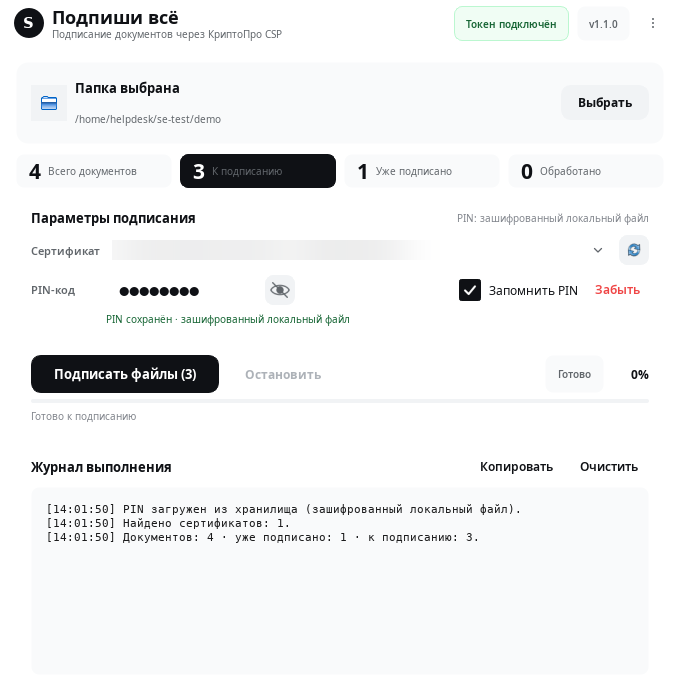
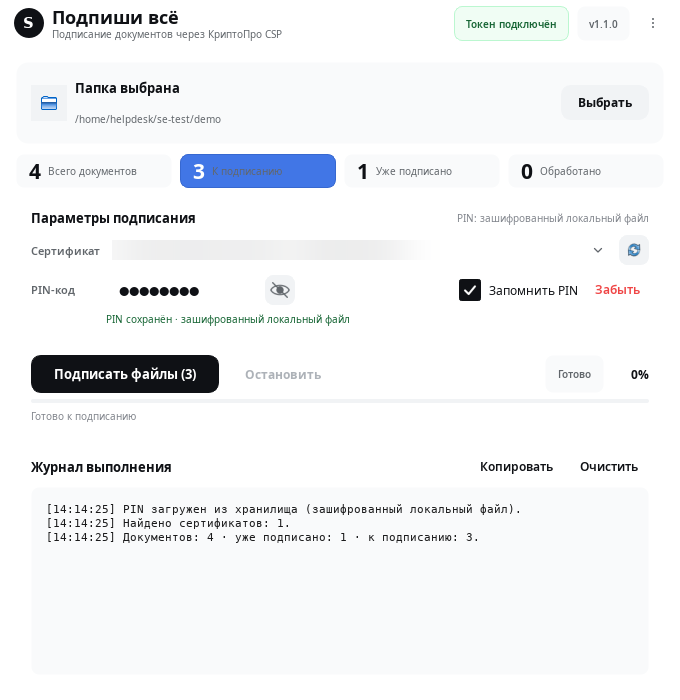
Use blue accent for pending documents tile

Changed region(s): [[0.2471, 0.21, 0.4941, 0.27], [0.0926, 0.72, 0.1544, 0.78]]

diff --git a/Sign-everything.py b/Sign-everything.py
@@ -1040,8 +1040,8 @@ QFrame#StatCard {{
     border-radius: 8px;
 }}
 QFrame#StatCard[accent="true"] {{
-    background: #0F1115;
-    border-color: #0F1115;
+    background: #4176E6;
+    border-color: #3768D0;
 }}
 QLabel#CardTitle {{ color: #0F1115; font-size: 9.5pt; font-weight: 600; }}
 QLabel#FieldLabel {{ color: #61666B; font-size: 8pt; font-weight: 500; }}
@@ -1049,7 +1049,7 @@ QLabel#Hint {{ color: #81858C; font-size: 7.5pt; }}
 QLabel#StatValue {{ color: #0F1115; font-size: 15pt; font-weight: 600; }}
 QLabel#StatValue[accent="true"] {{ color: #FFFFFF; }}
 QLabel#StatCaption {{ color: #61666B; font-size: 7.5pt; }}
-QLabel#StatCaption[accent="true"] {{ color: #CFD3D6; }}
+QLabel#StatCaption[accent="true"] {{ color: #FFFFFF; }}
 
 /* Зона перетаскивания */
 QFrame#DropZone {{
